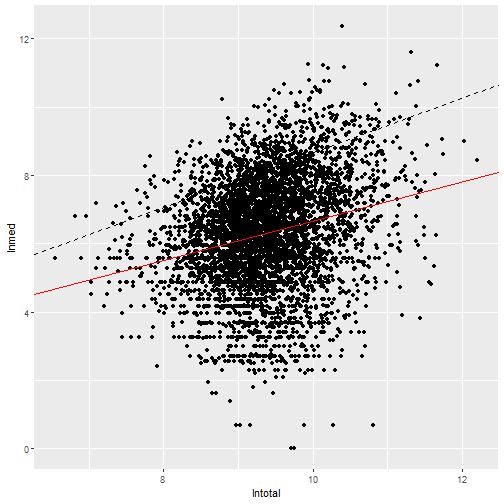
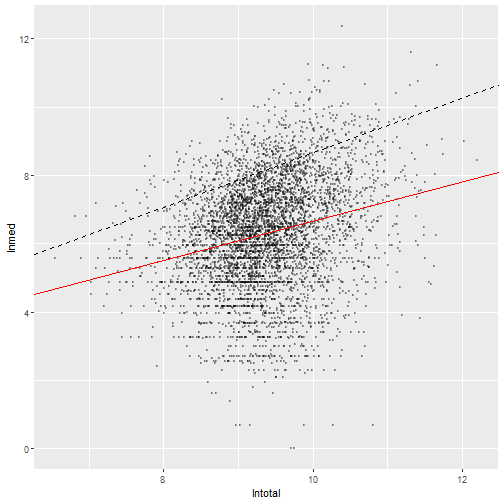
fix cuantil

diff --git a/slides/cuantil.html b/slides/cuantil.html
@@ -70,7 +70,7 @@ donde `\(F_y\)` es la función de distribución acumulada de `\(y\)`
   
   - `\(q=0.75\)` es el cuartil superior
 
-- Por ejemplo, si `\(y\)` es el salario mensual y `\(\mu_{0.75}=6,000\)`, entonces el 75% de los individuos tiene un salario menor o igual que 6,000
+- Por ejemplo, si `\(y\)` es el salario mensual y `\(\mu_{0.75}=6,000\)`, entonces la probabilidad de que `\(y\leq 6,000\)` es 0.75 (75% de los individuos tiene un salario menor o igual que 6,000)
 
 
 ---
@@ -79,7 +79,9 @@ donde `\(F_y\)` es la función de distribución acumulada de `\(y\)`
 
 - Consideremos ahora la regresión de `\(y\)` dado `\(x\)`
 
-- El cuantil poblacional `\(q\)` es la función `\(\mu_q(x)\)` tal que `\(y\)` condicional en `\(x\)` es menor o igual que `\(\mu_q(x)\)`
+- El cuantil poblacional `\(q\)` de `\(y\)` dado `\(x\)` es la función `\(\mu_q(x)\)` tal que `\(y\)` condicional en `\(x\)` es menor o igual que `\(\mu_q(x)\)` con probabilidad `\(q\)`
+
+- Análogamente
 
 `$$\mu_q(x)=F^{-1}_{y|x}(q)$$`
 
@@ -93,13 +95,12 @@ donde `\(F_{y|x}\)` es la cdf de `\(y\)` dado `\(x\)`
 
   1. Ordenamos la muestra en orden ascendente
   
-  1. `\(\hat{\mu}_q\)` será la `\(int(Nq)\)`ésima observación
+  1. `\(\hat{\mu}_q\)` será la `\([Nq]\)`ésima observación más pequeña, donde `\([X]\)` significa *redondear al siguiente entero*
 
-- Por ejemplo, si `\(N=97\)` y buscamos el cuartil inferior, `\(p=0.25\)`
+- Por ejemplo, si `\(N=97\)` y buscamos el cuartil inferior, `\(q=0.25\)`
 
-  - `\(\hat{\mu}_{0.25}\)` es el valor de `\(y\)` de la observación `\(int(24.25)=25\)`
+  - `\(\hat{\mu}_{0.25}\)` es el valor de `\(y\)` de la observación 25 porque `\([97*0.25]=[24.25]=25\)`
   
-
 - Kroenker &amp; Bassett (1978) mostraron que `\(\hat{\mu}_q\)` puede ser estimado como la solución al siguiente problema de minimización
 
 `$$\hat{\mu}_q=\arg\min_{\beta} \sum_{i|y_i\geq \beta}^N q|y_i-\beta|+\sum_{i|y_i &lt;\beta}^N(1-q)|y_i-\beta|$$`
@@ -112,7 +113,7 @@ donde `\(F_{y|x}\)` es la cdf de `\(y\)` dado `\(x\)`
 `$$\hat{\beta}_q=\arg\min_{\beta_q} \sum_{i|y_i\geq x_i'\beta}^N q|y_i-x_i'\beta_q|+\sum_{i|y_i &lt;x_i'\beta}^N(1-q)|y_i-x_i'\beta_q|$$`
 - Se hace explícito que `\(\beta_q\)` depende de `\(q\)`, es decir, el cuantil elegido
 
-- Este es un problema de minimización de una función de pérdida, como de los que hablamos de forma general en la [Clase 2](https://ecnii-2021.netlify.app/clases/clase_2.html#4)
+- Este es un problema de minimización de una función de pérdida, como de los que hablamos de forma general en la [clase de teoría asintótica](https://rojasirvin.github.io/ecn_ciestaam2022/slides/teoria_asintotica.html#4)
 
 - En el caso de la regresión cuantil tiene la característica de pesar asimétricamente los errores
   - `\((1-q)\)` es la penalización para las sobrepredicciones
@@ -128,7 +129,7 @@ donde `\(F_{y|x}\)` es la cdf de `\(y\)` dado `\(x\)`
 
 - Regresión en la mediana minimiza `\(\sum_i |e_i|\)`
 
-- En el caso de regresión en la mediana, el problema es encontrar `\(\hat{\beta}_0.5\)` que minimiza
+- En el caso de regresión en la mediana, el problema es encontrar `\(\hat{\beta}_{0.5}\)` que minimiza
 
 $$\sum_i |y_i-x_i'\beta| $$
 
@@ -246,7 +247,9 @@ summary(r.q90 &lt;- rq(lnmed  ~ lntotal, data=data.wb, tau=0.9))
 
 
 ```r
-g1 &lt;- ggplot(data.wb, aes(x=lntotal,y=lnmed)) + geom_point() + 
+g1 &lt;- data.wb %&gt;% 
+  ggplot(aes(x=lntotal,y=lnmed)) + 
+  geom_point(alpha=0.3, size=.1) + 
   geom_abline(intercept=coef(r.q90)[1], slope=coef(r.q90)[2], color="black", linetype="dashed")+
   geom_abline(intercept=coef(r.mco)[1], slope=coef(r.mco)[2], color="red")
 ```
